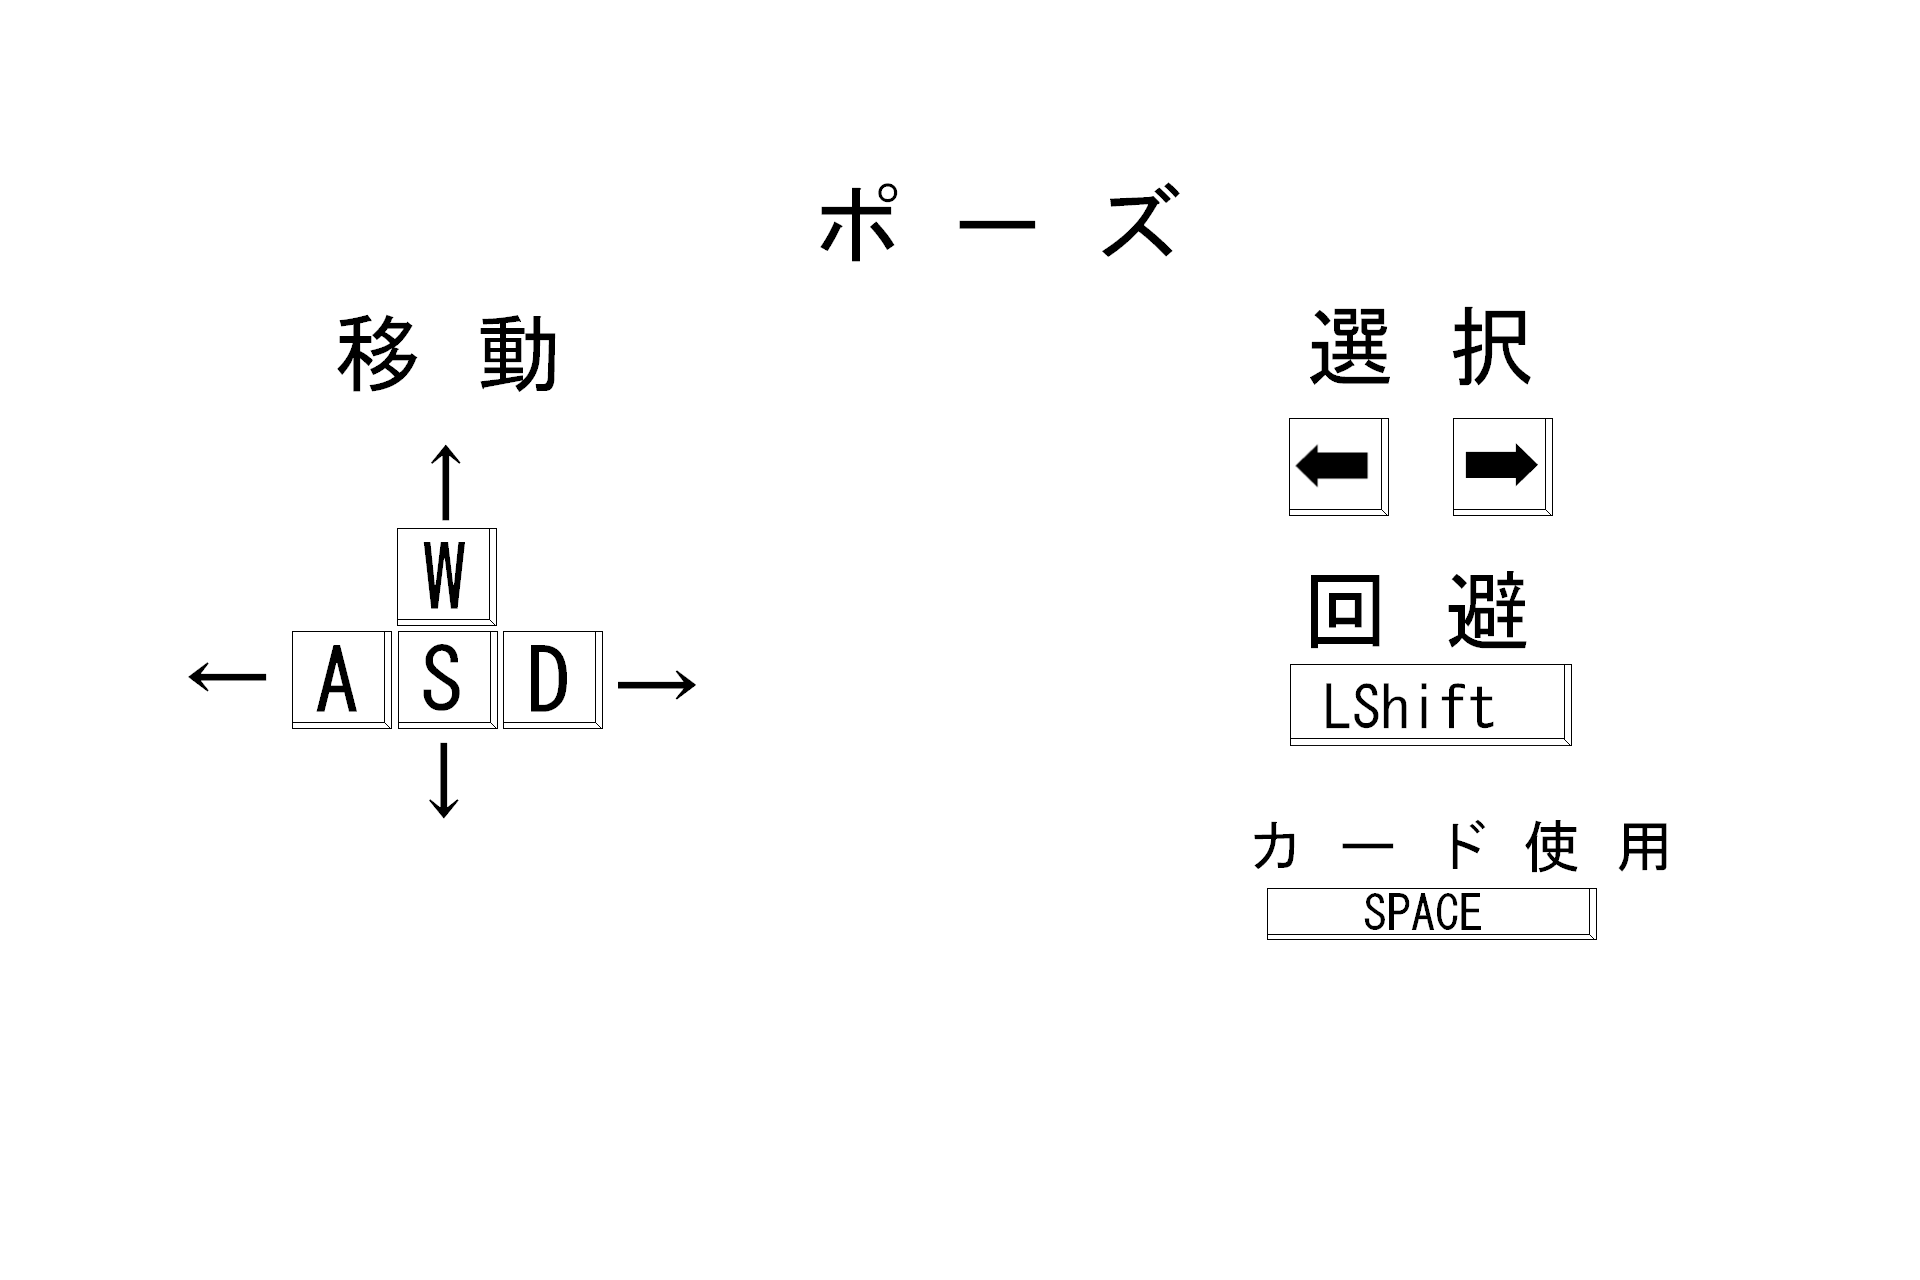
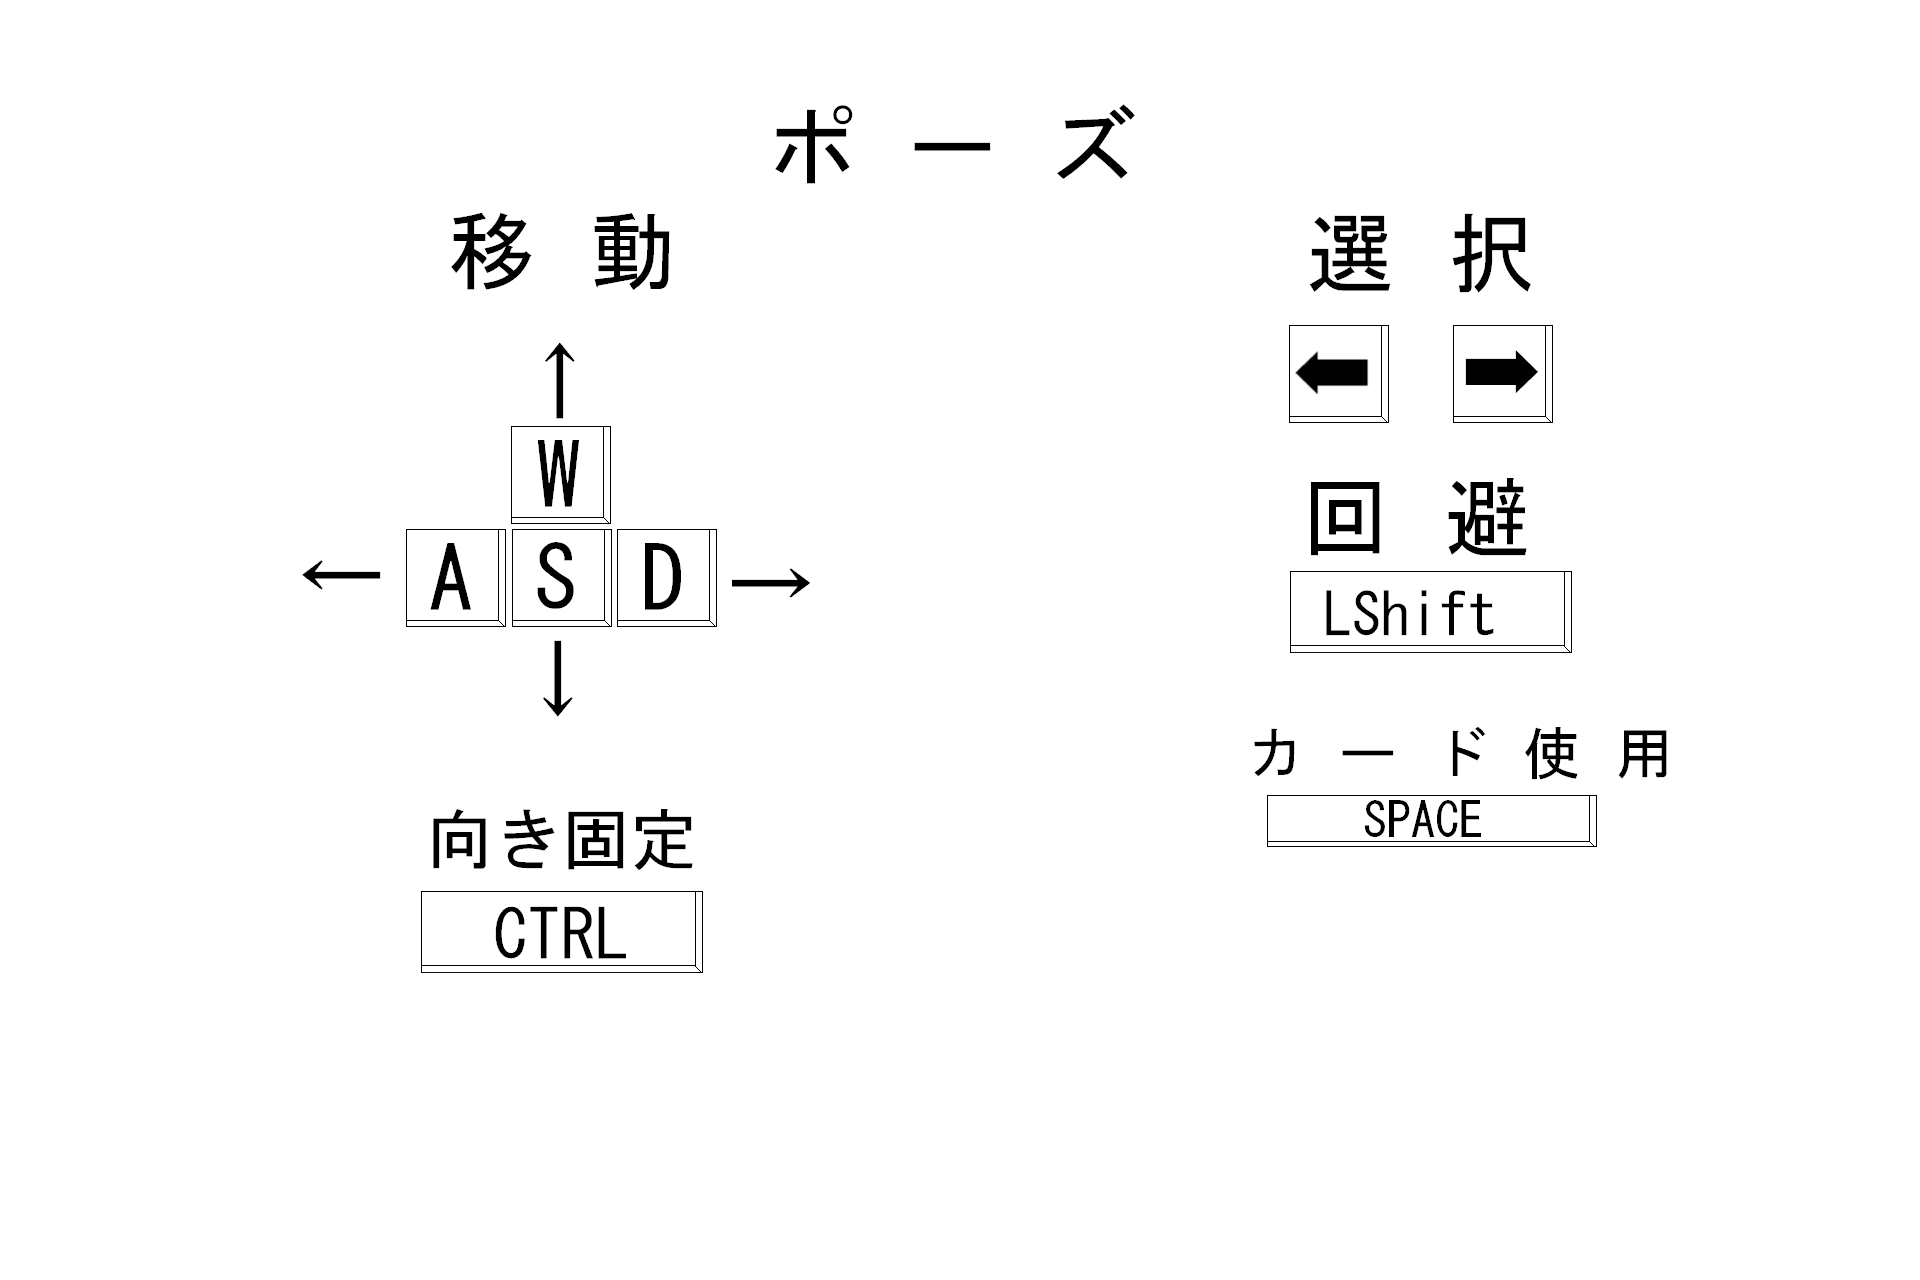
ポーズ画面書き直した

diff --git a/project/game/scene/GamePlayScene.cpp b/project/game/scene/GamePlayScene.cpp
@@ -299,7 +299,7 @@ void GamePlayScene::Initialize() {
 	TextManager::GetInstance()->SetScale("CardSelectLabel", 0.85f);
 	TextManager::GetInstance()->SetColor("CardSelectLabel", 1.0f, 1.0f, 1.0f, 1.0f);
 	TextManager::GetInstance()->SetOutline("CardSelectLabel", true, 0.0f, 0.0f, 0.0f, 0.86f, 3.0f);
-	TextManager::GetInstance()->SetText("SlideMoveLabel", "");
+	TextManager::GetInstance()->SetText("SlideMoveLabel", "向き固定");
 	TextManager::GetInstance()->SetScale("SlideMoveLabel", 0.85f);
 	TextManager::GetInstance()->SetColor("SlideMoveLabel", 1.0f, 1.0f, 1.0f, 1.0f);
 	TextManager::GetInstance()->SetOutline("SlideMoveLabel", true, 0.0f, 0.0f, 0.0f, 0.86f, 3.0f);
